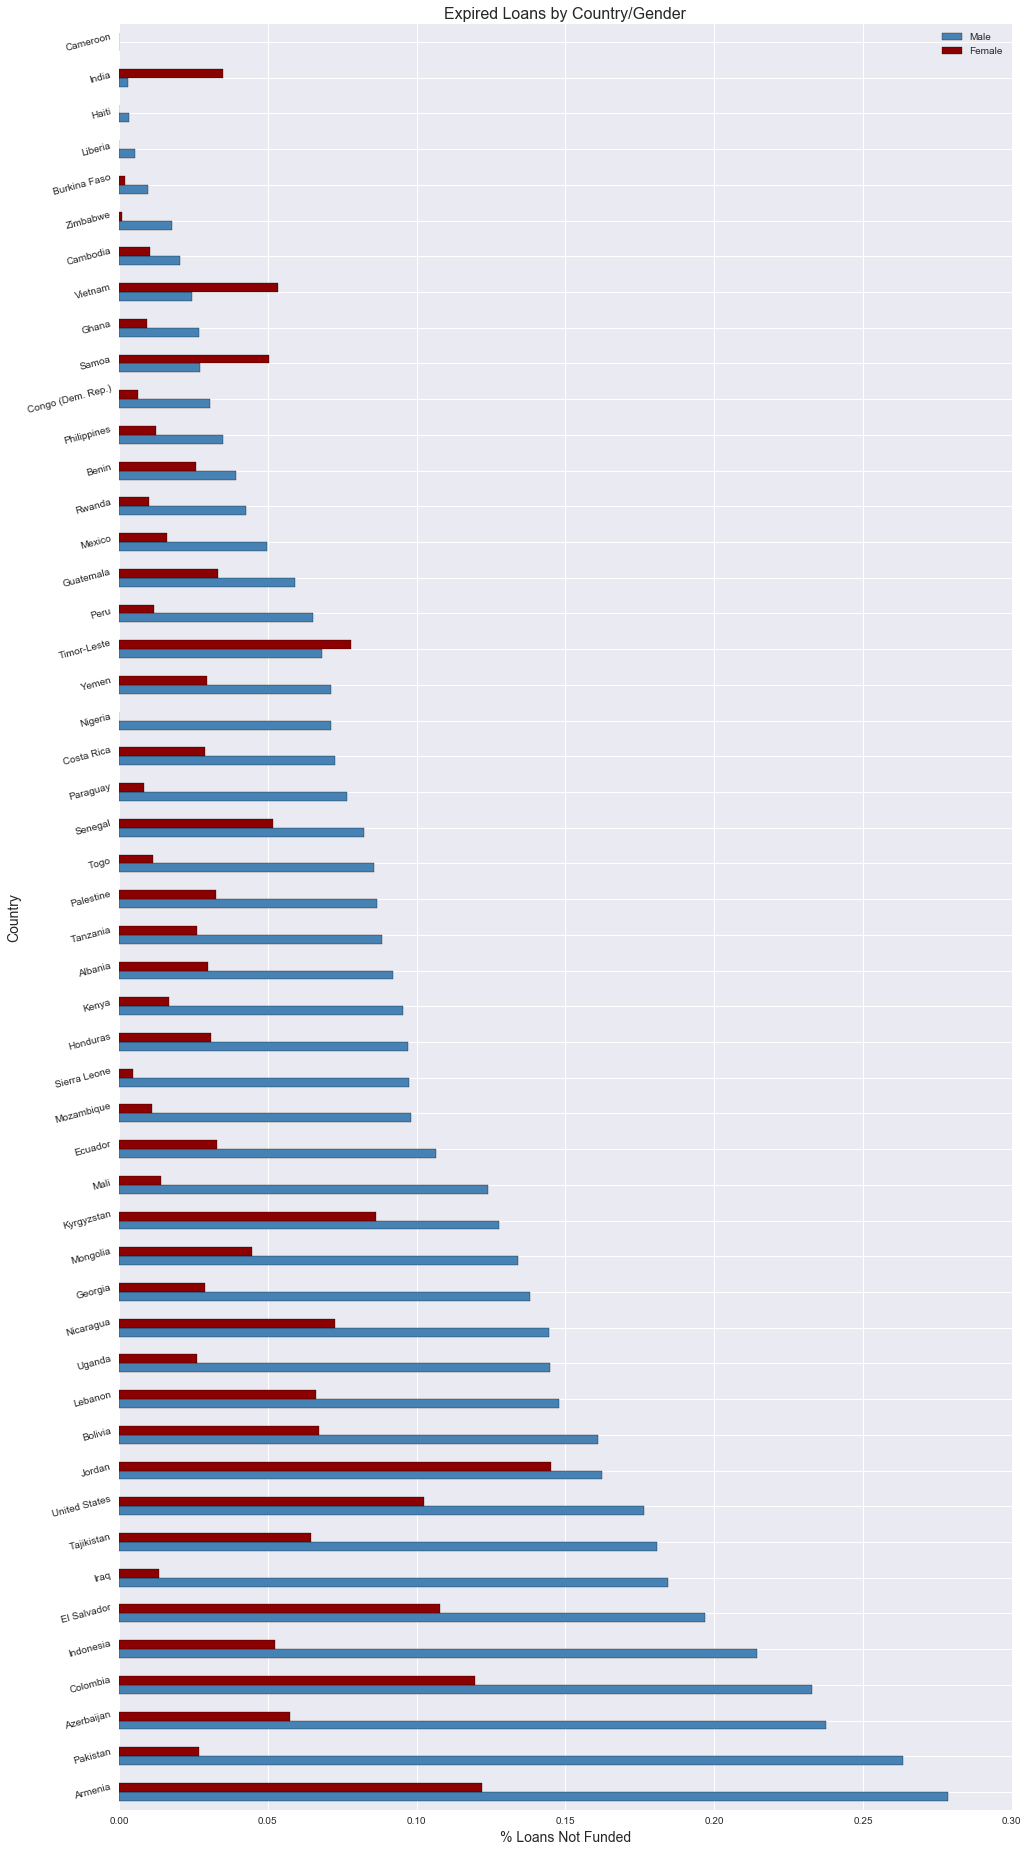
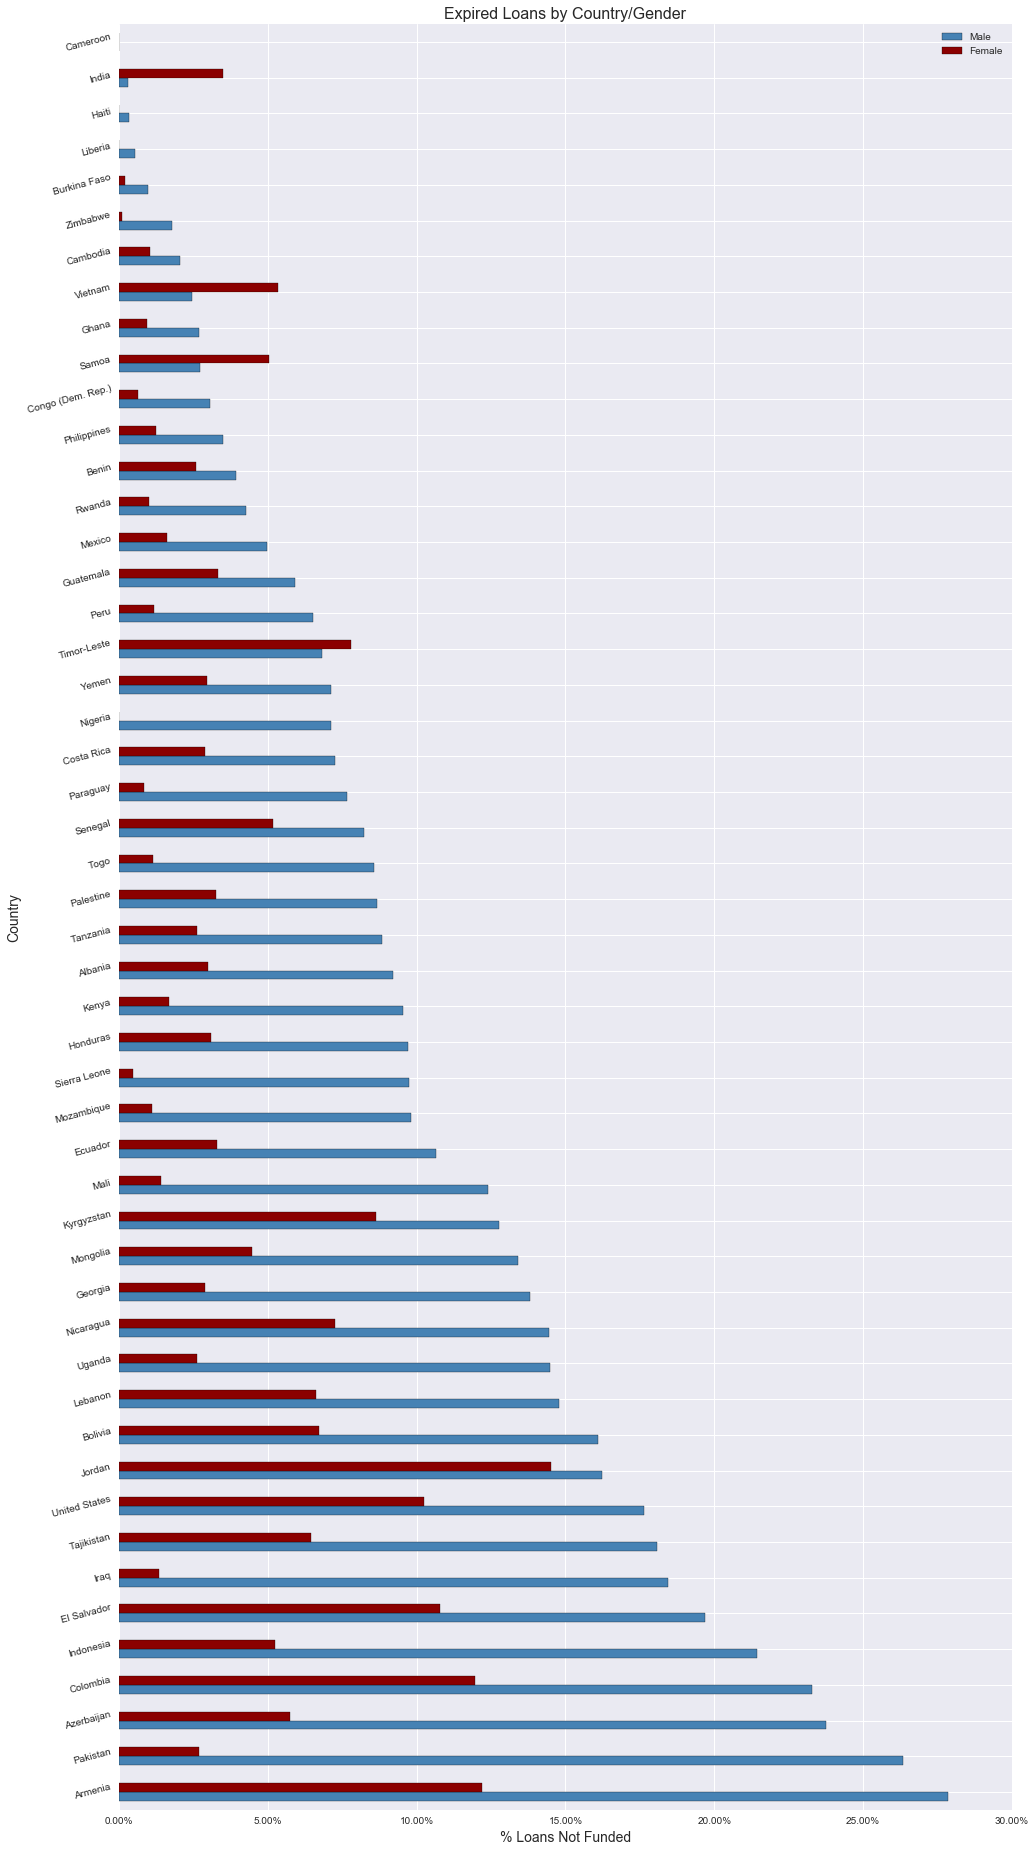
checking in some stuff

diff --git a/code/kiva_plotting.py b/code/kiva_plotting.py
@@ -4,11 +4,13 @@ import seaborn as sns
 import folium
 import numpy as np
 import matplotlib
+from scipy import stats
 
 #%matplotlib inline
     
 class plot_code(object):
     def __init__(self,df):
+        #Load dataframe
         self.df = df
     
     def plot_loans(self):
@@ -69,6 +71,9 @@ class plot_code(object):
             plt.xticks()
             plt.title('Expired Loans by ' + column[1] + '/Gender', fontsize=16)
             plt.legend(['Male','Female'])
+            vals = plt.gca().get_xticks()
+            plt.gca().set_xticklabels(['{:3.2f}%'.format(x*100) for x in vals])
+
 
             path = './assets/' + column[0] + '.png'
             plt.savefig(path, bbox_inches='tight')
@@ -76,13 +81,12 @@ class plot_code(object):
         plt.show()
 
     def plot_avg_loan_by_expired(self):
-    #This section plots bar graphs breaking down expired loans
         top_countries = self.df.groupby('country')[['loan_amount']].count().reset_index().sort_values(by='loan_amount',ascending=False).head(50)['country'].unique()
 
         #top_countries = self.df.groupby('country')[['loan_amount']].mean().reset_index().sort_values(by='loan_amount',ascending=False).head(29)['country'].unique()
         #Removing these four counties as only had 5 loans between them and for very large amount skewing scale for plotting
         top_countries = [c for c in top_countries if c not in ('Papua New Guinea','Mauritania','Botswana','Afghanistan')]
-        for column in [('sector','Sector'),('region','Region'),('income_level','Income Level'),('country','Country')]:
+        for column in [('gender','Gender'),('sector','Sector'),('region','Region'),('income_level','Income Level'),('country','Country')]:
             if column[0] == 'country':
                 row_mask = self.df.country.isin(top_countries)
             else: 
@@ -100,17 +104,19 @@ class plot_code(object):
             plt.title('Average Loan Amount by ' + column[1] + '/Funded Status', fontsize=16)
             plt.legend(['Funded','Un-Funded'])
             plt.gca().get_xaxis().set_major_formatter(matplotlib.ticker.FuncFormatter(lambda x, p: format(int(x), ',')))
+            if column[0] =='gender':
+                plt.yticks(range(2), ('Male', 'Female'))
+
+
             path = './assets/' + column[0] + 'avg_loaned.png'
             plt.savefig(path, bbox_inches='tight')
 
         plt.show()  
-
-
     
     def plot_point_map(self):
         #Point map showing $$$ of each country loaned to
         map_df = self.df.groupby(by=['latitude','longitude','country'])['loan_amount'].agg({'No. Loans':'count','Dollar Amount':sum}).reset_index()
-        map_df = map_df[map_df.latitude != ""]
+        map_df = map_df[map_df.latitude != np.nan]
         map_df['Dollar Amount'] = map_df['Dollar Amount'].map('${:,.0f}'.format)
         map_df['No. Loans'] = map_df['No. Loans'].map('{:,.2f}'.format)
 
@@ -154,15 +160,13 @@ class plot_code(object):
         plt.show()
 
     def plot_avg_loans_by_gender(self):
-        #This section plots bar graphs breaking down expired loans
         top_countries = self.df.groupby('country')[['loan_amount']].count().reset_index().sort_values(by='loan_amount',ascending=False).head(50)['country'].unique()
-
         for column in [('sector','Sector'),('region','Region'),('income_level','Income Level'),('country','Country')]:
             if column[0] == 'country':
-                row_mask = self.df.country.isin(top_countries)
+                row_mask = ((self.df.country.isin(top_countries)) & (self.df.status == 'funded'))
                 #row_mask = self.index
             else: 
-                row_mask = self.df.index
+                row_mask = (self.df.status=='funded')
             
             height_dic = {'country':40,'gender':2,'region':8,'income_level':4,'sector':16}
             w = 16
@@ -182,3 +186,61 @@ class plot_code(object):
             plt.savefig(path, bbox_inches='tight')
 
             plt.show()
+
+    def correlation_heat_map(self):
+        df = self.df.select_dtypes(exclude=['object','datetime'])
+
+        corrs = df.corr()
+
+        # Set the default matplotlib figure size:
+        fig, ax = plt.subplots(figsize=(18,12))
+
+        mask = np.zeros_like(corrs, dtype=np.bool)
+        mask[np.triu_indices_from(mask)] = True
+
+        ax = sns.heatmap(corrs, mask=mask)
+
+        ax.set_xticklabels(ax.xaxis.get_ticklabels(), fontsize=14, rotation=70)
+        ax.set_yticklabels(ax.yaxis.get_ticklabels(), fontsize=14, rotation=0)
+
+        plt.show()
+
+    def t_test(self, column):
+        print_dic = {'No_Loans':('supply of unfunded loans','supply of funded loans'),
+                     'loan_amount':('loan amount of unfunded loans','loan amount of funded loans')
+                    }
+        
+        funded = self.df[self.df.target==0][column]
+        unfunded = self.df[self.df.target==1][column]
+
+        two_sample_diff_var = stats.ttest_ind(funded, unfunded, equal_var = False)    
+
+        print "The mean %s is %.3f and the mean %s is %.3f. The t-statistic is %.3f and the p-value is %.6f." \
+        % (print_dic[column][0], np.mean(unfunded), print_dic[column][1],np.mean(funded), two_sample_diff_var[0],two_sample_diff_var[1])
+
+    def plot_hists(self, column):
+        fig = plt.figure(figsize=(12,8))
+        ax = fig.gca()
+
+        sns.distplot(self.df[self.df.target==1][column], color = 'blue', ax=ax)
+        sns.distplot(self.df[self.df.target==0][column], color = 'red', ax=ax)
+
+        plt.show()
+
+    def plot_time_periods(self):
+        self.df.groupby('month')['target'].mean().reset_index().plot(figsize=(16,8),kind='bar',x='month')
+        #ax = plt.gca()
+        plt.title('% Unfunded Loans By Month')
+        
+        self.df.groupby('year')['target'].mean().reset_index().plot(figsize=(16,8),kind='bar',x='year')
+        #ax = plt.gca()
+        plt.title('% Unfunded Loans By Year')
+
+        self.df.groupby(['month','year'])['target'].mean().unstack().plot(figsize=(16,8),kind='bar')
+        plt.xticks(range(13), ('Jan','Feb','Mar','Apr','May','Jun','Jul','Aug','Sep','Oct','Nov','Dec'))
+        plt.xlabel('Month')
+        plt.Axes.set
+        #ax = plt.gca()
+        plt.title('% Unfunded Loans By Year/Month')
+
+        plt.show()  

diff --git a/code/build_model.py b/code/build_model.py
@@ -17,7 +17,23 @@ class model_data(object):
         self.engine = create_engine('postgresql://ryandunlap:tiger@localhost:5432/kivadb')
         self.df = self.load_data()
         self.sample_df = pd.DataFrame()
-        
+    
+    def _transform_dummies(self, df):
+        df = pd.get_dummies(df,columns=['year','month','activity','sector','country','income_level','region'],drop_first=True)
+        return df
+
+    def _drop_cols(self, df):
+        cols = ['funded_amount','repayment_interval','country_code','geo_pairs','funded_date','id','planned_expiration_date','posted_date','status','fx_date','end_date','ISO3','disbursal_currency'] 
+        df = df.drop(cols, axis=1)
+        return df
+
+    def _data_clean_up(self, df):
+        cols = ['GDP_Growth','GDP_PCAP_Growth','GNI_PCAP','Tourism','latitude','longitude']
+        for col in cols:
+            df[col] = pd.to_numeric(df[col])
+        return df 
+
+
     def load_data(self):
     #Builds up df linking all data together
 
@@ -39,16 +55,10 @@ class model_data(object):
         """
 
         my_df = pd.read_sql(my_sql,self.engine)
+        
+        my_df = self._data_clean_up(my_df)
         return my_df 
     
-    def _transform_dummies(self, df):
-        df = pd.get_dummies(df,columns=['year','month','activity','sector','country','income_level','region'],drop_first=True)
-        return df
-
-    def _drop_cols(self, df):
-        cols = ['funded_amount','repayment_interval','country_code','geo_pairs','funded_date','id','planned_expiration_date','posted_date','status','fx_date','end_date','ISO3','disbursal_currency'] 
-        df = df.drop(cols, axis=1)
-        return df
 
     def get_stratified_sample(self, col="target", target_sample_size = 2600, target_ratio = 0.05):
         group_df = self.df.groupby(col)
@@ -64,6 +74,8 @@ class model_data(object):
                 new_data = pd.concat([new_data, sample])
         
         df = pd.DataFrame(new_data)
+        df = df[((df.english==1) & (df.lang_check_use=='en') & (df.lang_check=='en'))]
         df = self._transform_dummies(df)
+        df = self._data_clean_up(df)
         df = self._drop_cols(df)
         return df

diff --git a/code/flat_loans_to_postgres.py b/code/flat_loans_to_postgres.py
@@ -18,7 +18,7 @@ class initial_load(object):
                       FROM 
                       (SELECT DISTINCT "posted_date"::timestamp::date, "posted_date"::timestamp::date + INTERVAL '30 days' as "end_date"
                       FROM flat_loans) d
-                      JOIN flat_loans l on (l."posted_date" >= d."posted_date" and l."posted_date" <= d."end_date")
+                      JOIN flat_loans l on (l."posted_date" <= d."posted_date" and l."end_date" >= d."posted_date")
                       GROUP BY d."posted_date", d."end_date";"""
         self.verbose = verbose
 
